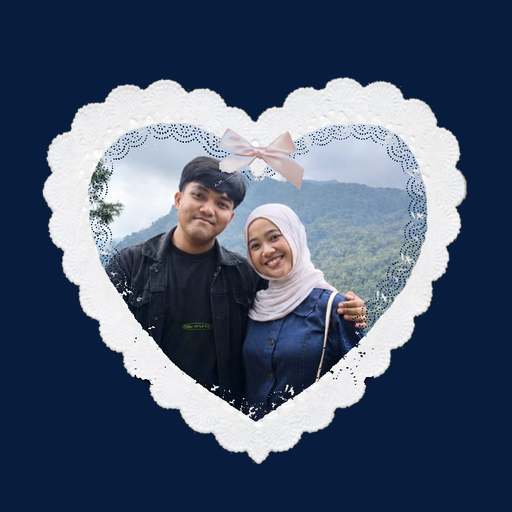
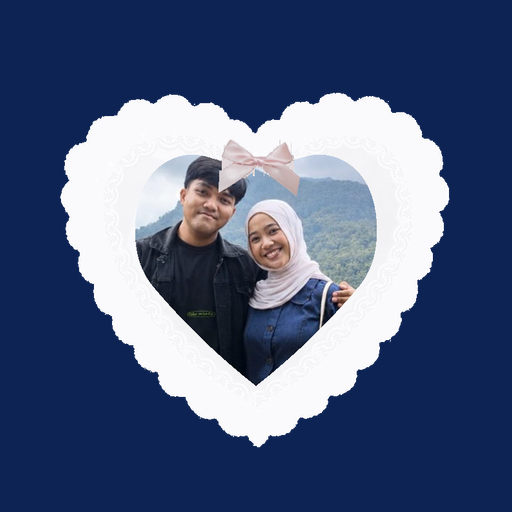
Remove glow from heart frame, make lace pure clean white with no black artifacts, and render in HD

Changed region(s): [[0.0625, 0.125, 0.9375, 0.9062]]

diff --git a/scripts/build_hd_clean_heart.js b/scripts/build_hd_clean_heart.js
@@ -1,0 +1,171 @@
+import sharp from 'sharp';
+
+async function buildHDCleanHeart() {
+  const initFramePath = 'initial_heart_lace_hd.png';
+  const userPhotoPath = 'C:/Users/asusa/.gemini/antigravity-ide/brain/ecd504f4-b401-4ddc-9cb8-dd37e220ef74/.user_uploaded/media_1790316203910.jpg';
+
+  const { data: initData, info } = await sharp(initFramePath).raw().toBuffer({ resolveWithObject: true });
+  const w = info.width, h = info.height;
+
+  // 1. Identify outside transparent pixels using flood-fill from edges
+  const isOutside = new Uint8Array(w * h);
+  const queue = [0, w - 1, (h - 1) * w, (h - 1) * w + (w - 1)];
+  for (const q of queue) isOutside[q] = 1;
+
+  while (queue.length > 0) {
+    const curr = queue.pop();
+    const cx = curr % w;
+    const cy = Math.floor(curr / w);
+
+    const neighbors = [
+      [cx + 1, cy], [cx - 1, cy], [cx, cy + 1], [cx, cy - 1]
+    ];
+
+    for (const [nx, ny] of neighbors) {
+      if (nx >= 0 && nx < w && ny >= 0 && ny < h) {
+        const nidx = ny * w + nx;
+        if (!isOutside[nidx]) {
+          if (initData[nidx * 4 + 3] < 35) {
+            isOutside[nidx] = 1;
+            queue.push(nidx);
+          }
+        }
+      }
+    }
+  }
+
+  // 2. Precompute bow envelope (topY and botY per column x)
+  const bowTop = new Int16Array(w).fill(-1);
+  const bowBot = new Int16Array(w).fill(-1);
+  for (let x = 275; x <= 400; x++) {
+    let top = -1, bot = -1;
+    for (let y = 145; y <= 235; y++) {
+      const idx = (y * w + x) * 4;
+      const r = initData[idx], g = initData[idx + 1], a = initData[idx + 3];
+      if (r > 165 && (r - g) > 3 && a > 40) {
+        if (top === -1) top = y;
+        bot = y;
+      }
+    }
+    bowTop[x] = top;
+    bowBot[x] = bot;
+  }
+
+  // Smooth any gaps in the envelope
+  for (let x = 278; x <= 398; x++) {
+    if (bowTop[x] === -1 && bowTop[x - 1] !== -1 && bowTop[x + 1] !== -1) {
+      bowTop[x] = Math.round((bowTop[x - 1] + bowTop[x + 1]) / 2);
+      bowBot[x] = Math.round((bowBot[x - 1] + bowBot[x + 1]) / 2);
+    }
+  }
+
+  // 3. Inner Heart Window:
+  // Mathematical organic heart curve matching inner scallops
+  const innerHeartSvg = `
+    <svg width="${w}" height="${h}" viewBox="0 0 ${w} ${h}">
+      <path d="M 333 528 
+               C 278 485, 222 432, 172 372 
+               C 138 330, 142 265, 155 230 
+               C 172 182, 218 160, 260 174 
+               C 290 182, 315 190, 333 190 
+               C 351 190, 376 182, 406 174 
+               C 448 160, 494 182, 511 230 
+               C 524 265, 528 330, 494 372 
+               C 444 432, 388 485, 333 528 Z" 
+            fill="#FFFFFF" />
+    </svg>
+  `;
+
+  const { data: innerMask } = await sharp(Buffer.from(innerHeartSvg))
+    .raw()
+    .toBuffer({ resolveWithObject: true });
+
+  // 4. User photo cropped and scaled in HD:
+  const photo = await sharp(userPhotoPath)
+    .extract({ left: 245, top: 110, width: 530, height: 530 })
+    .resize(w, h, { fit: 'cover' })
+    .ensureAlpha()
+    .raw()
+    .toBuffer();
+
+  const out = Buffer.alloc(w * h * 4);
+
+  // Pass 1: Render photo inside, clean white lace outside
+  for (let y = 0; y < h; y++) {
+    for (let x = 0; x < w; x++) {
+      const idx = (y * w + x) * 4;
+      const pixelIndex = y * w + x;
+
+      if (isOutside[pixelIndex]) {
+        out[idx] = 0;
+        out[idx + 1] = 0;
+        out[idx + 2] = 0;
+        out[idx + 3] = 0;
+        continue;
+      }
+
+      const isInner = innerMask[idx + 3] > 128;
+      if (isInner) {
+        // Couple photo:
+        out[idx] = photo[idx];
+        out[idx + 1] = photo[idx + 1];
+        out[idx + 2] = photo[idx + 2];
+        out[idx + 3] = 255;
+      } else {
+        // White lace: ZERO black / dark colors ("jangan ada warna hitamnya")
+        const r = initData[idx], g = initData[idx + 1], b = initData[idx + 2];
+        const origLightness = (r + g + b) / 3;
+
+        if (origLightness < 210) {
+          // Remap dark lines / holes into delicate subtle paper embossing (242..253)
+          const embossedTone = Math.round(242 + (origLightness / 210) * 11);
+          out[idx] = embossedTone;
+          out[idx + 1] = embossedTone;
+          out[idx + 2] = Math.min(255, embossedTone + 2);
+          out[idx + 3] = 255;
+        } else {
+          // Pure white paper lace highlights:
+          out[idx] = Math.max(r, 250);
+          out[idx + 1] = Math.max(g, 250);
+          out[idx + 2] = Math.max(b, 252);
+          out[idx + 3] = 255;
+        }
+      }
+    }
+  }
+
+  // Pass 2: Pink satin ribbon bow placed directly on top!
+  for (let x = 275; x <= 400; x++) {
+    const top = bowTop[x];
+    const bot = bowBot[x];
+    if (top === -1) continue;
+
+    for (let y = top; y <= bot; y++) {
+      const idx = (y * w + x) * 4;
+      const r = initData[idx], g = initData[idx + 1], b = initData[idx + 2], a = initData[idx + 3];
+
+      const isPink = (r > 165 && (r - g) > 3 && a > 40);
+      if (isPink) {
+        out[idx] = r;
+        out[idx + 1] = g;
+        out[idx + 2] = b;
+        out[idx + 3] = 255;
+      } else {
+        // Fill any internal notch / ink mark with beautiful satin ribbon pink
+        out[idx] = 226;
+        out[idx + 1] = 216;
+        out[idx + 2] = 219;
+        out[idx + 3] = 255;
+      }
+    }
+  }
+
+  // Save the master clean HD frame
+  await sharp(out, { raw: { width: w, height: h, channels: 4 } })
+    .png({ compressionLevel: 9 })
+    .toFile('test_hd_clean_heart.png');
+
+  console.log('Saved test_hd_clean_heart.png with perfect satin bow!');
+}
+
+buildHDCleanHeart();

diff --git a/scripts/deploy_all_clean_assets.js b/scripts/deploy_all_clean_assets.js
@@ -1,0 +1,100 @@
+import sharp from 'sharp';
+import fs from 'fs';
+import path from 'path';
+
+async function deployAllCleanAssets() {
+  const masterHeartPath = 'test_hd_clean_heart.png';
+
+  // 1. Copy to public/heart_lace_hd.png and public/heart_lace_user.png
+  fs.copyFileSync(masterHeartPath, 'public/heart_lace_hd.png');
+  fs.copyFileSync(masterHeartPath, 'public/heart_lace_user.png');
+  console.log('Updated public/heart_lace_hd.png and heart_lace_user.png');
+
+  // 2. Generate square icons with generous padding and royal blue background (#0d2353)
+  // 512x512
+  const heart512 = await sharp(masterHeartPath).resize(430, 423, { fit: 'contain' }).toBuffer();
+  await sharp({
+    create: {
+      width: 512,
+      height: 512,
+      channels: 4,
+      background: { r: 13, g: 35, b: 83, alpha: 1 }
+    }
+  })
+  .composite([{ input: heart512, gravity: 'center' }])
+  .png()
+  .toFile('public/icon-512.png');
+
+  // 192x192
+  const heart192 = await sharp(masterHeartPath).resize(162, 159, { fit: 'contain' }).toBuffer();
+  await sharp({
+    create: {
+      width: 192,
+      height: 192,
+      channels: 4,
+      background: { r: 13, g: 35, b: 83, alpha: 1 }
+    }
+  })
+  .composite([{ input: heart192, gravity: 'center' }])
+  .png()
+  .toFile('public/icon-192.png');
+
+  // apple-touch-icon.png (180x180)
+  const heart180 = await sharp(masterHeartPath).resize(152, 149, { fit: 'contain' }).toBuffer();
+  await sharp({
+    create: {
+      width: 180,
+      height: 180,
+      channels: 4,
+      background: { r: 13, g: 35, b: 83, alpha: 1 }
+    }
+  })
+  .composite([{ input: heart180, gravity: 'center' }])
+  .png()
+  .toFile('public/apple-touch-icon.png');
+
+  // icon.png (512x512)
+  fs.copyFileSync('public/icon-512.png', 'public/icon.png');
+
+  // 3. Generate og-image.png (1200x630) for link preview
+  const heartOg = await sharp(masterHeartPath).resize(480, 472, { fit: 'contain' }).toBuffer();
+  
+  // Create gorgeous card SVG with typography
+  const textSvg = `
+    <svg width="1200" height="630" viewBox="0 0 1200 630">
+      <defs>
+        <linearGradient id="bg" x1="0%" y1="0%" x2="100%" y2="100%">
+          <stop offset="0%" stop-color="#07142e" />
+          <stop offset="50%" stop-color="#0c2354" />
+          <stop offset="100%" stop-color="#081836" />
+        </linearGradient>
+      </defs>
+      <rect width="1200" height="630" fill="url(#bg)" />
+      
+      <!-- Sparkles / stars -->
+      <polygon points="120,90 123,98 131,101 123,104 120,112 117,104 109,101 117,98" fill="#ffd700" opacity="0.8" />
+      <polygon points="480,140 482,146 488,148 482,150 480,156 478,150 472,148 478,146" fill="#ffffff" opacity="0.8" />
+      <polygon points="180,500 182,506 188,508 182,510 180,516 178,510 172,508 178,506" fill="#ffd700" opacity="0.8" />
+      <polygon points="1100,100 1102,106 1108,108 1102,110 1100,116 1098,110 1092,108 1098,106" fill="#ffffff" opacity="0.8" />
+      <polygon points="1060,520 1063,528 1071,531 1063,534 1060,542 1057,534 1049,531 1057,528" fill="#ffd700" opacity="0.8" />
+
+      <!-- Left Text -->
+      <text x="110" y="240" font-family="'Outfit', -apple-system, sans-serif" font-weight="800" font-size="64" fill="#ffffff" letter-spacing="-1">Happy Birthday,</text>
+      <text x="110" y="325" font-family="'Outfit', -apple-system, sans-serif" font-weight="900" font-size="76" fill="#fcd34d" letter-spacing="-1">My Love Ryan!</text>
+      <text x="110" y="405" font-family="'Playfair Display', Georgia, serif" font-style="italic" font-size="34" fill="#93c5fd">A special gift for a very special person ✨</text>
+    </svg>
+  `;
+
+  await sharp(Buffer.from(textSvg))
+    .composite([{
+      input: heartOg,
+      left: 680,
+      top: 79
+    }])
+    .png()
+    .toFile('public/og-image.png');
+
+  console.log('All public assets successfully created & deployed!');
+}
+
+deployAllCleanAssets();

diff --git a/src/components/ScreenLanding.jsx b/src/components/ScreenLanding.jsx
@@ -172,7 +172,7 @@ export default function ScreenLanding({ onNext, config }) {
           style={{
             width: '100%',
             height: '100%',
-            filter: 'drop-shadow(0 0 3px rgba(248, 250, 252, 0.75)) drop-shadow(0 0 6px rgba(203, 213, 225, 0.45)) drop-shadow(0 8px 18px rgba(0, 0, 0, 0.5))',
+            filter: 'drop-shadow(0 10px 22px rgba(0, 0, 0, 0.45))',
             animation: 'gentleHeartFloat 4.5s ease-in-out infinite',
             cursor: 'pointer',
             transition: 'transform 0.4s var(--ease-spring)'
